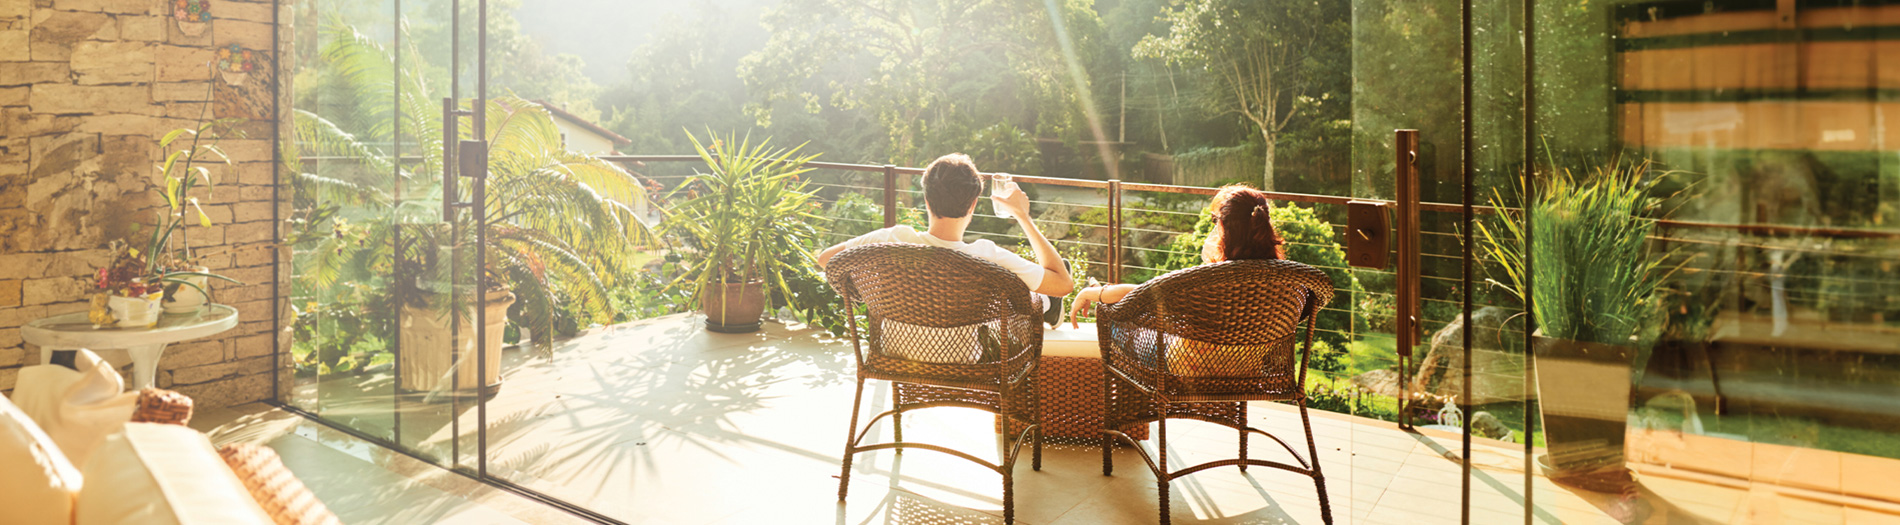
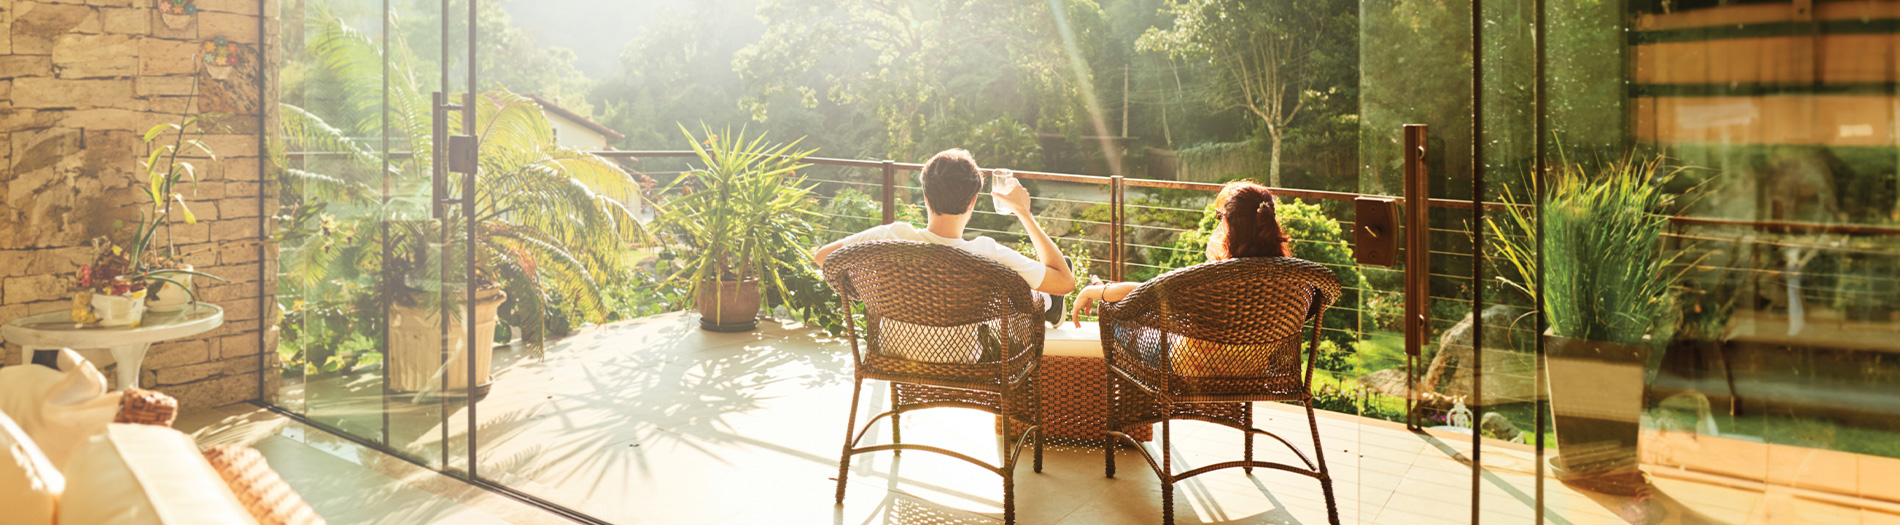
Herosection changes done

diff --git a/src/Components/Herosection.jsx b/src/Components/Herosection.jsx
@@ -7,13 +7,18 @@ import WhiteLogo from '../Assets/imgs/Whitelogo.png';
 const Herosection = () => {
   return (
     <>
-    <div className='md:py-8 py-14 md:mx-20'>
-        <h1 className='uppercase md:text-4xl md:leading-[60px] leading-normal md:font-[500] font-semibold ml-8 md:pe-0 pe-8 md:ml-0 text-2xl'>India’s foremost integrated fund led
-        <span className='md:block'> residential real estate developer</span>
-        </h1>
+    <div className='py-7 md:mx-20'>
+      <h2 className='md:font-[500] font-semibold ml-8 md:pe-0 pe-8 md:ml-0 md:text-xl text-lg'>
+      A Venture backed by SEBI Approved fund, 360 ONE(formerly IIFL Wealth) and Mohit Malhotra (Ex MD and CEO of Godrej Properties)
+      </h2>
     </div>
-    <div className='hidden md:block'>
-        <img src={BannerImage} alt="bannerimage" className='w-full md:h-auto k' />
+    <div className='md:mx-20'>
+        <h1 className='absolute md:top-[24rem] top-[20rem] z-10 uppercase md:text-4xl md:leading-[60px] leading-normal md:font-[600] font-semibold ml-8 md:pe-0 pe-8 md:ml-0 text-2xl'>India’s foremost integrated fund led
+        <span className='md:block'> residential real estate developer</span>
+        </h1> 
+    </div>
+    <div className='hidden md:block relative'>
+        <img src={BannerImage} alt="bannerimage" className='w-full md:h-[525px]' />
     </div>
     <div className='md:hidden'>
         <img src={BannerImagee} alt="bannerimage" className='w-full md:h-auto' />

diff --git a/src/Components/Team.jsx b/src/Components/Team.jsx
@@ -1,11 +1,20 @@
 import React from "react";
+import { useState } from "react";
 import Mohit from "../Assets/imgs/mohit28.png";
+import partners_neoliv from "../Assets/imgs/partners_neoliv.jpg";
 import ReadMore from './ReadMore'
 import Shadow from "../Assets/imgs/Shadow.png";
 import Insignia from "./Insignia";
 
 
 const Team = () => {
+
+  const [isImageVisible, setIsImageVisible] = useState(false);
+ 
+  const toggleImageVisibility = () => {
+    setIsImageVisible(!isImageVisible);
+  };
+
   return (
 <>
 <div className="flex flex-col md:flex-row md:mx-52 pt-20 md:px-0 px-4">
@@ -27,9 +36,13 @@ const Team = () => {
           two decades.
         </p> */}
         <ReadMore />
-        <button className="border cursor-pointer px-5 py-2 rounded-full">See ALL MEMBERS</button>
+        <button onClick={toggleImageVisibility} className="border cursor-pointer px-5 py-2 rounded-full">See ALL MEMBERS</button>
       </div>
       </div>
+
+      <div className="w-full md:p-10 p-3 z-40">
+          {isImageVisible && <img src={partners_neoliv} alt="mohit" className="w-full transition-height duration-5000" />}
+        </div>
     
 <div className="flex flex-col md:flex-row md:mx-40 md:py-20 pt-10">
 <div className="md:w-1/2 p-12 bg-blue-950 -ml-4 space-y-9 z-20 text-white rounded-l-2xl">

diff --git a/src/Components/Header/Header.jsx b/src/Components/Header/Header.jsx
@@ -12,7 +12,7 @@ let Links=[
 let [isOpen, SetisOpen]= useState(false)
 
   return (
-    <div className='py-5 w-screen'>
+    <div className='pt-5 w-screen'>
        <div className='md:px-10 px-7 md:flex justify-between items-center md:mx-6'>
        <div className='w-48'>
             <img src={Logo} alt="" />
@@ -30,7 +30,7 @@ let [isOpen, SetisOpen]= useState(false)
 
         </div>
 
-        <ul className={`md:flex md:items-center md:pb-0 pb-12 absolute bg-blue-950 md:bg-white md:static md:z-auto left-0 w-full md:w-auto md:pl-0 pl-8 me-8 transition-all duration-500 ease-out ${isOpen ? 'top-32' : 'top-[-490px]'}`}>
+        <ul className={`md:flex md:items-center md:pb-0 pb-12 absolute bg-blue-950 md:bg-white md:static md:z-auto z-20 left-0 w-full md:w-auto md:pl-0 pl-8 me-8 transition-all duration-500 ease-out ${isOpen ? 'top-32' : 'top-[-490px]'}`}>
                 {
                     Links.map((link) => (
                     <li className='md:ml-6 md:my-0 my-7 font-medium tracking-wide'>
